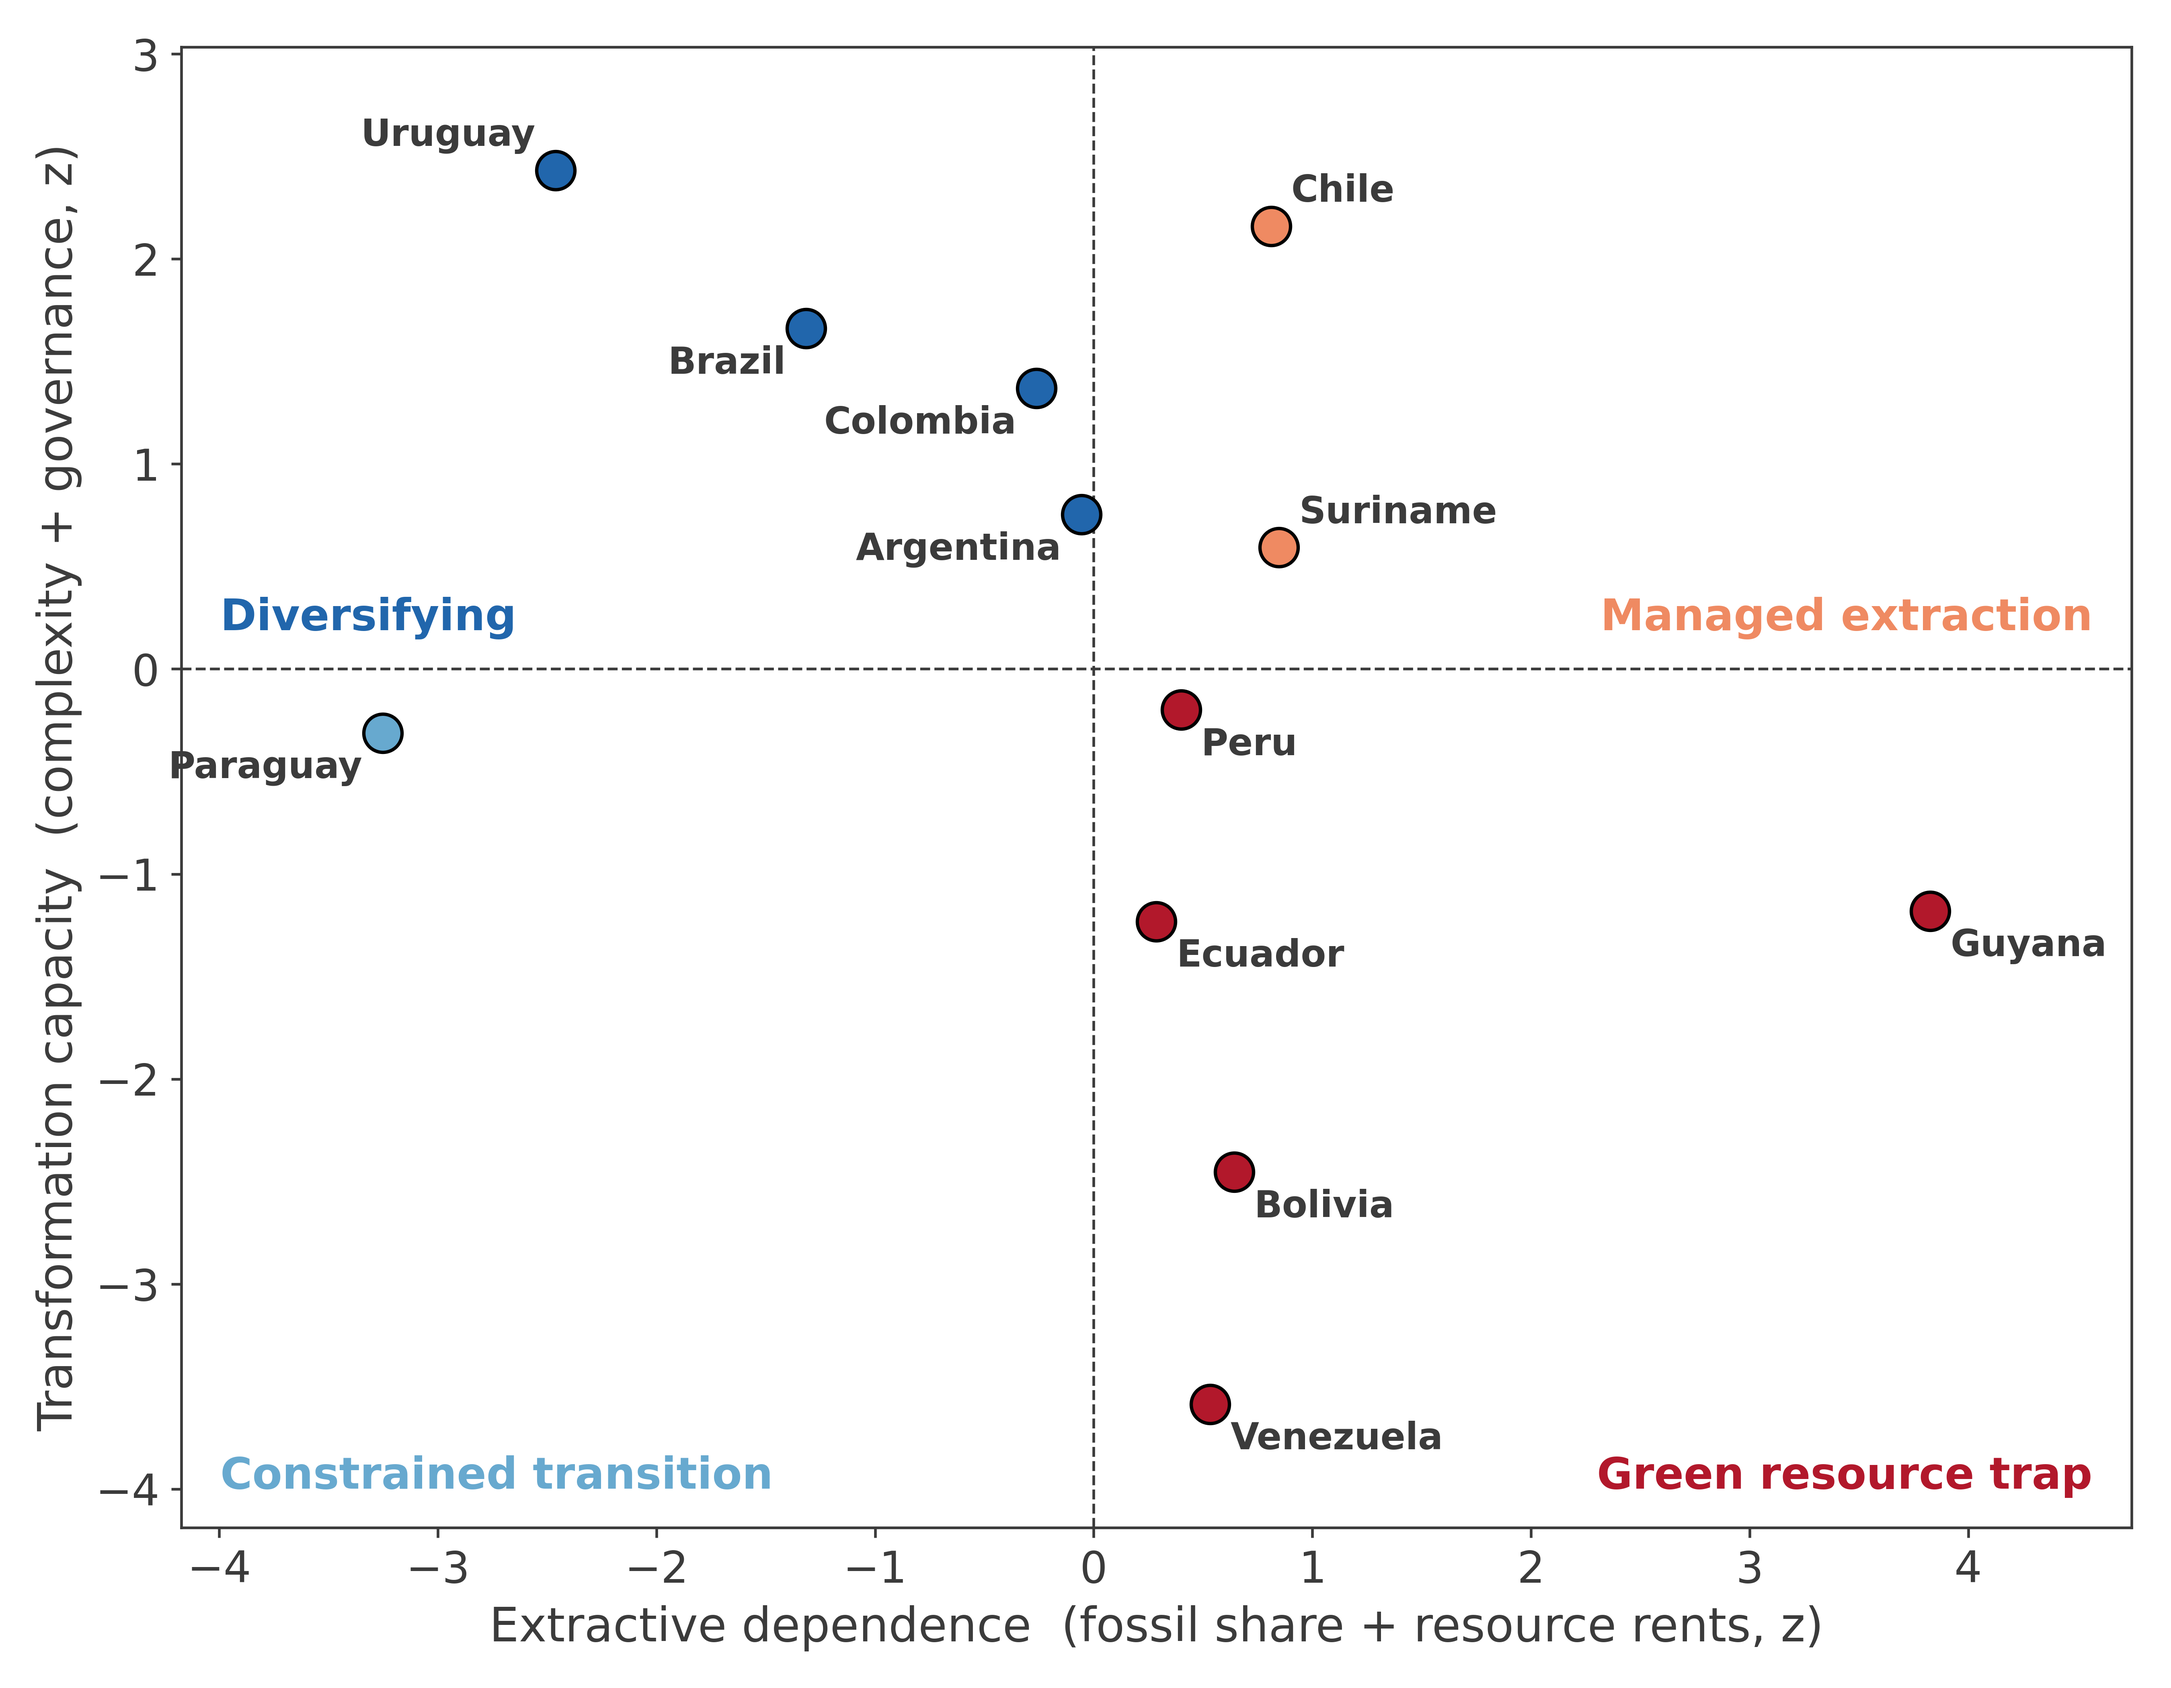
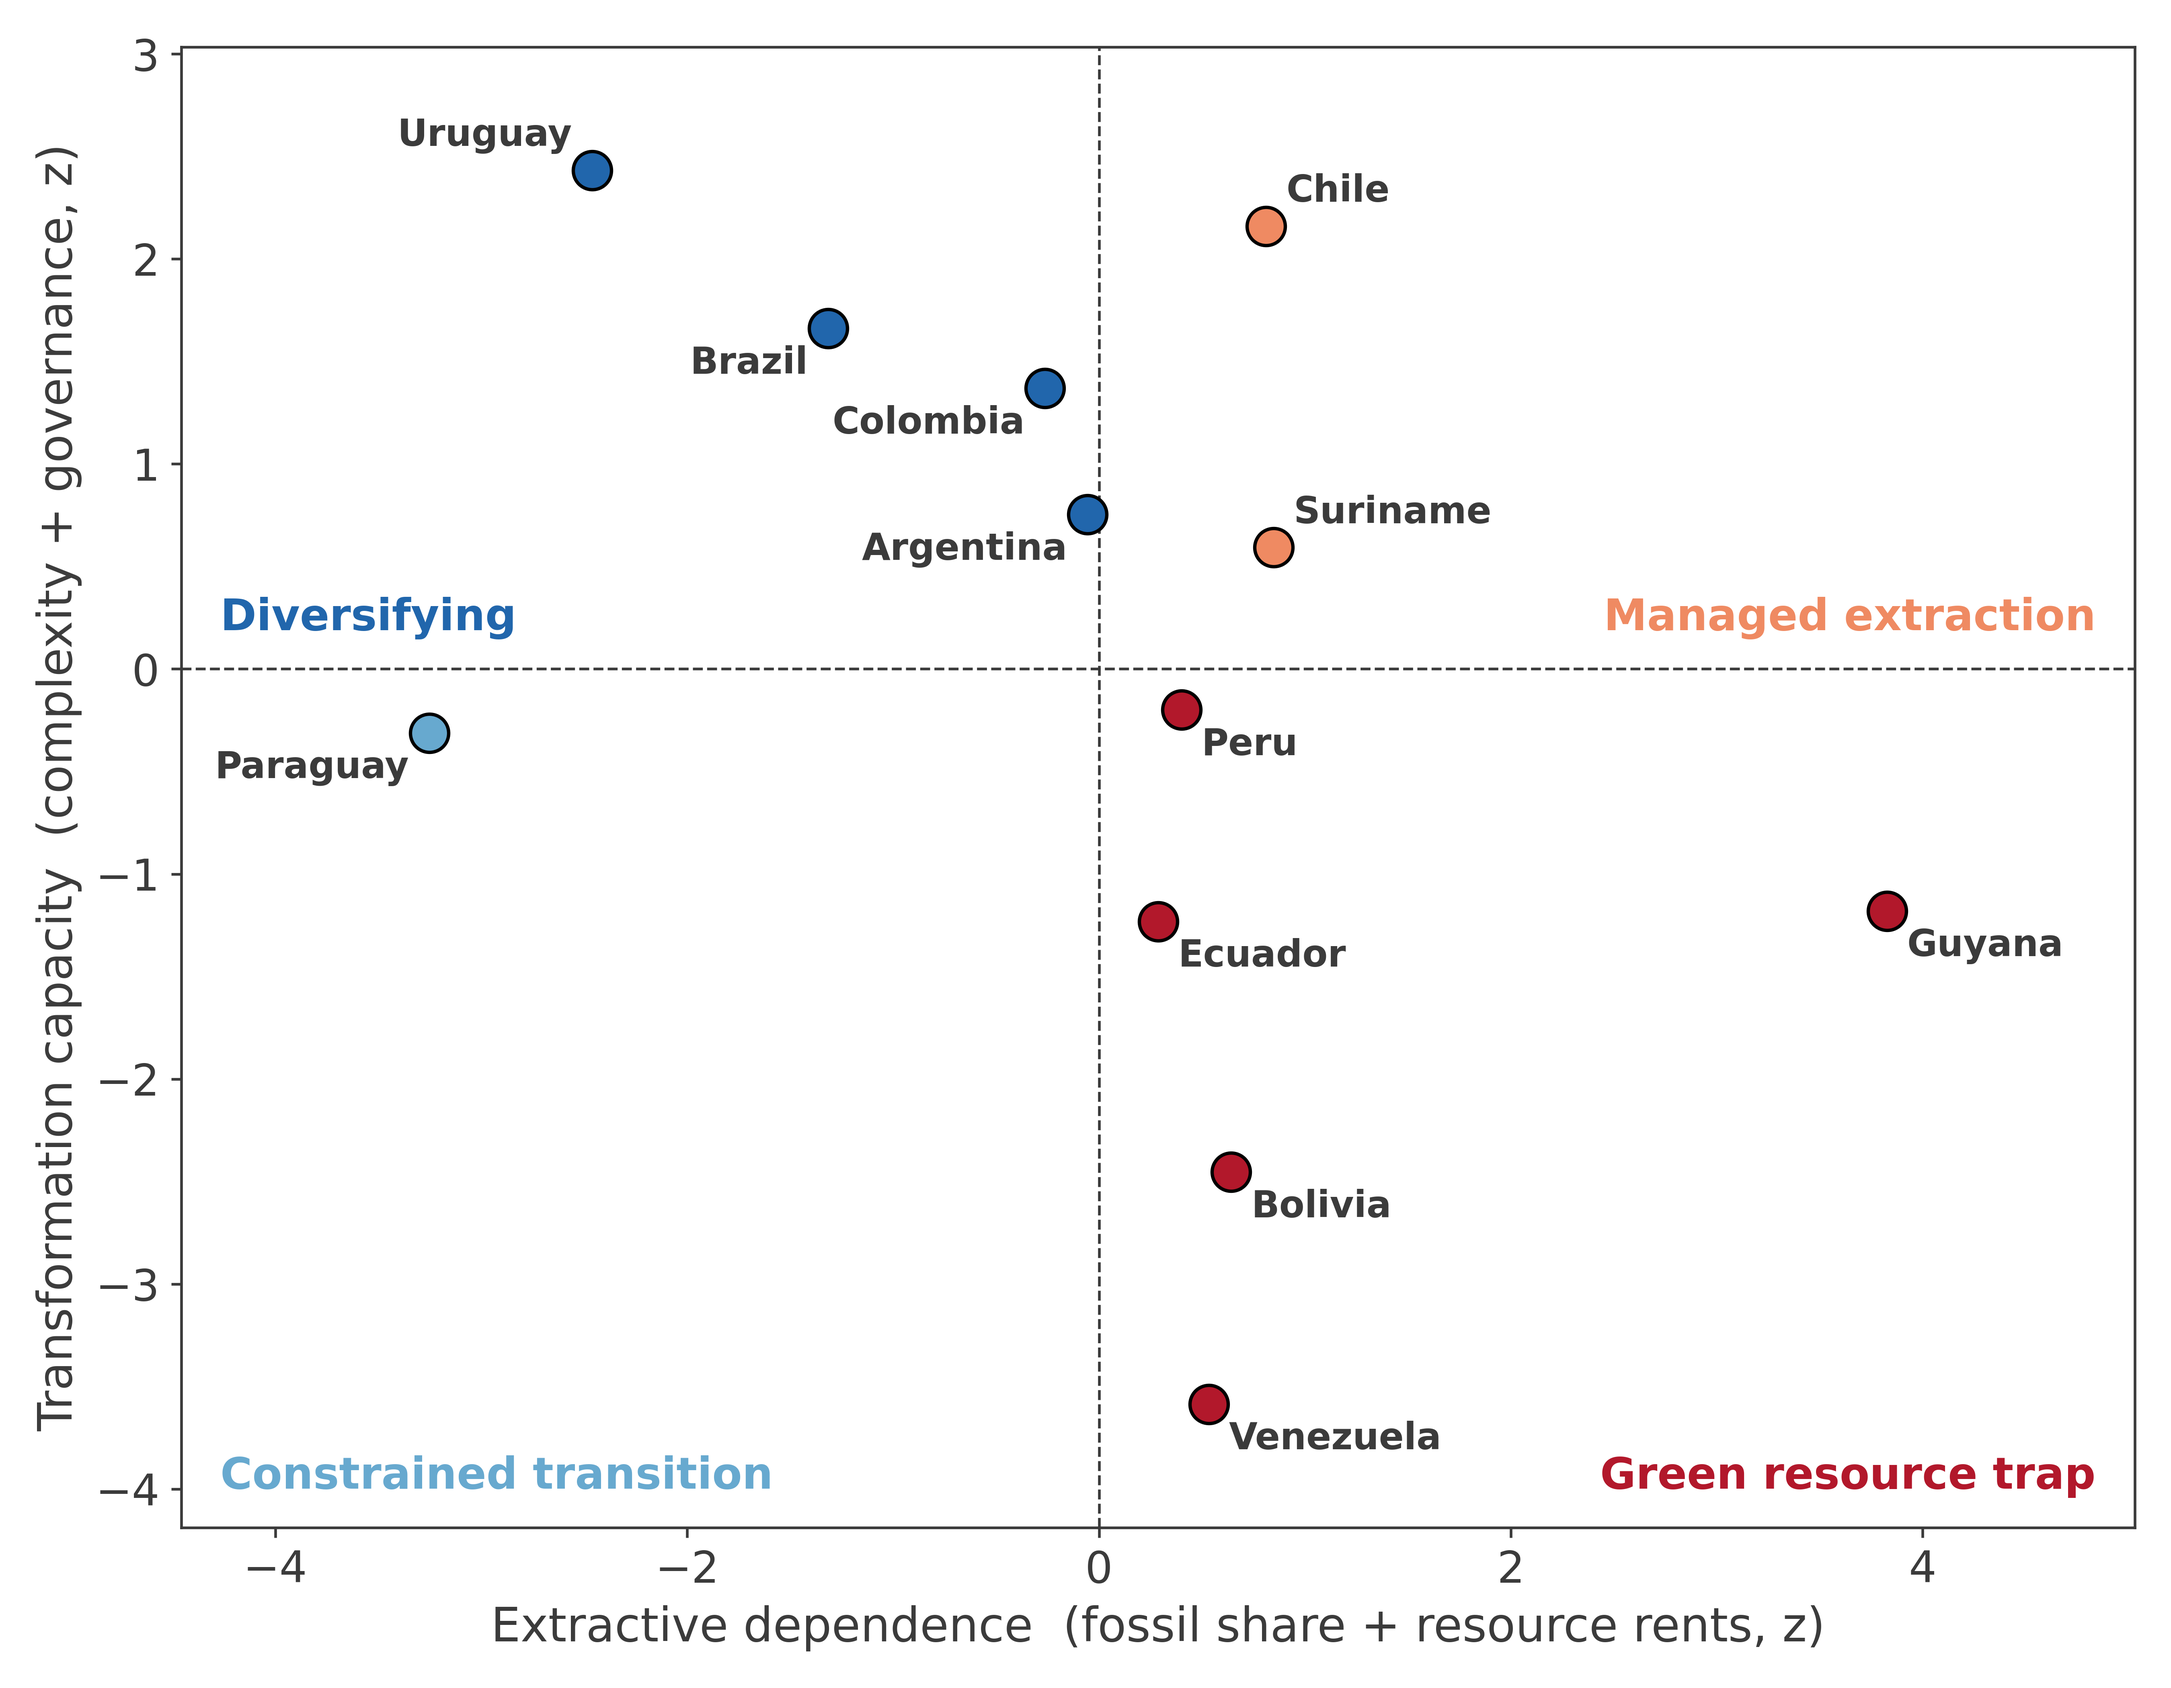
fix(fig): typology 2x2 — Paraguay label was touching the left spine
x-margin 0.13 -> 0.17; the "Paraguay" label (leftmost point) intersected
the plot border.

diff --git a/notebooks/03_typology.py b/notebooks/03_typology.py
@@ -73,7 +73,7 @@ for t, g in sa.groupby("type"):
 # extra margin (default autoscale is ~5%): the outward-pushed country labels
 # on the extremal points (Paraguay, Guyana) need more room than that on the
 # x side specifically, or their label touches the left/right plot border
-ax.margins(x=0.13, y=0.10)
+ax.margins(x=0.17, y=0.10)
 # Argentina/Brazil/Colombia sit close together in the upper-left quadrant;
 # pushed below-left instead of above-left, so their labels read as a
 # staircase under the points rather than crowding above them
